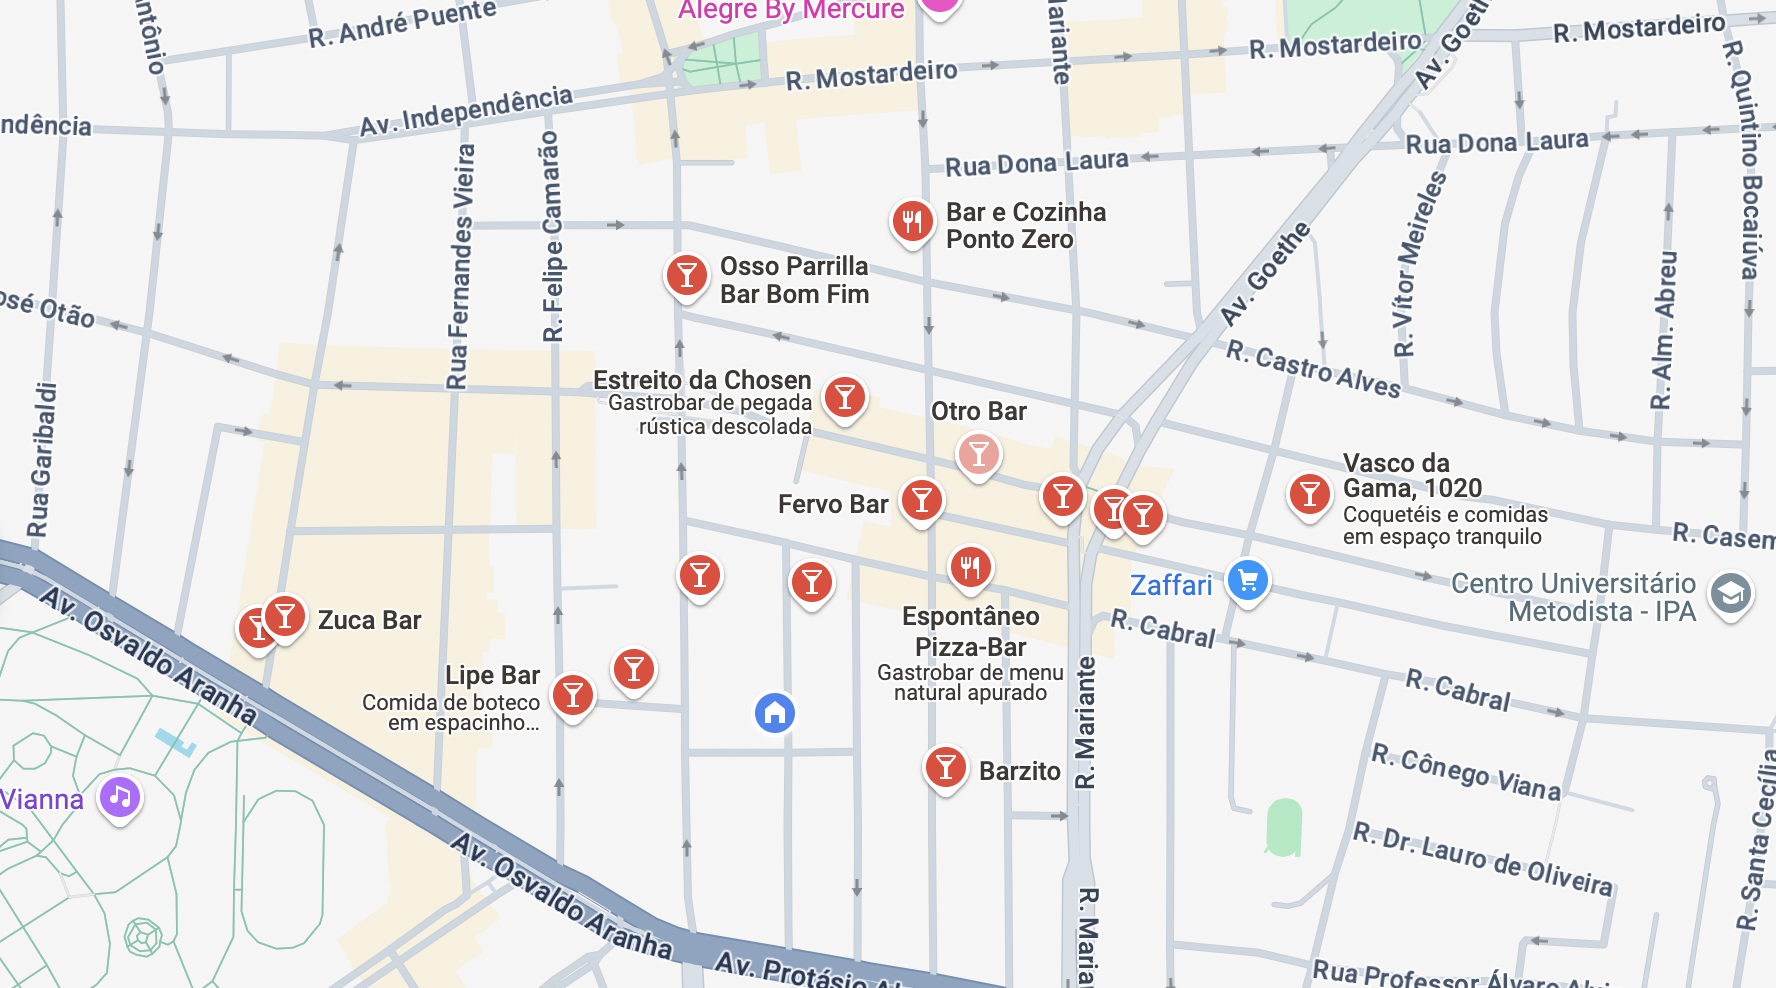
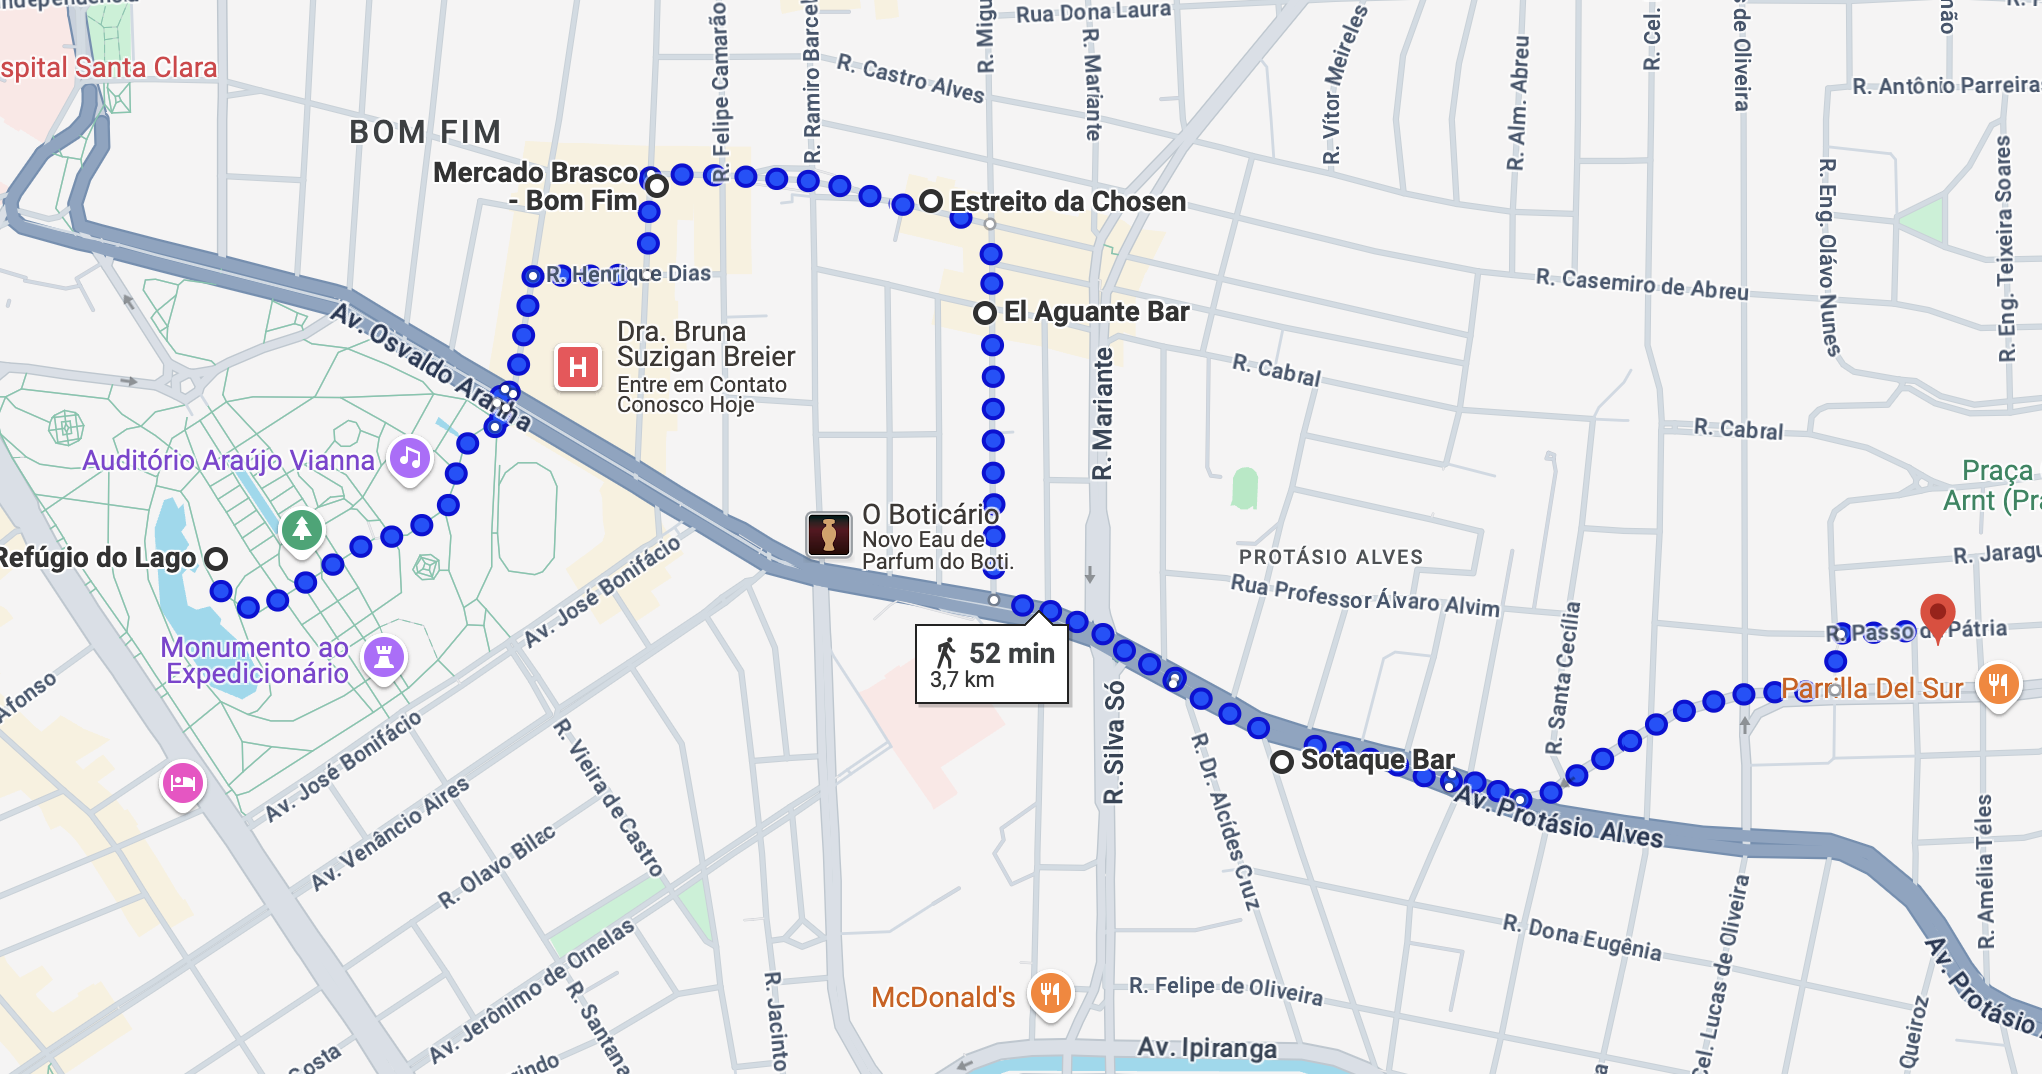
finalizado com todos os bares

diff --git a/index.html b/index.html
@@ -23,34 +23,77 @@ https://www.tooplate.com/view/2122-nano-folio
 <body>
     <div class="tm-container-fluid">
         <section class="tm-site-header tm-flex-center tm-mb-50 tm-bgcolor-2 tm-border-rounded">
-            <img src="./img/mapa.png" style="width:100%; height:50%;">
+            <img src="./img/mapa.png" style="width:100%; height:45%;">
         </section>
 
         <section class="tm-about tm-mb-80 tm-p-50 tm-bgcolor-1 tm-border-rounded">
             <div class="tm-about-header tm-flex-center">
-                <img style="width: 100%; height:100%" src="./img/refugio.png">
+                <img style="width: 100%; height:100%" src="./img/refugio.jpeg">
             </div>
             <div class="tm-about-text" style="padding-left:10px;">
-                <h1>1.</h1>
-                <p class="tm-mb-40">Nossa largada será no Refúgio do Lago.</p>
-                <p class="tm-mb-40">Chegar a partir das 17h</p>
-                <p class="tm-mb-40">O refúgio do lago na redenção foi escolhido para ser a nossa largada. Chegue cedo pois logo menos vamos começar a nossa baratona e ir rumo aos próximos km e destinos.</p>
-                <p class="tm-mb-0">Parque Farroupilha</p>
+                <h1>1. Refúgio do Lago</h1>
+                <p class="tm-mb-40">O Refúgio do Lago, na Redenção, foi escolhido para ser a concentração e nosso ponto de largada. Pedimos que cheguem cedo, próximo das 17h, pois logo vamos dar início a nossa BARatona 🍺🏃🏻♀e ir rumo aos próximos Km e destinos.</p>
+                <p class="tm-mb-0">Refúgio do Lago, Parque Farroupilha - Farroupilha, Porto Alegre - RS</p>
                 <a href="https://maps.app.goo.gl/C18gzLk58tJZEgcV9">Clique aqui para localização</a>
             </div>
         </section>
 
         <section class="tm-about tm-mb-80 tm-p-50 tm-bgcolor-2 tm-border-rounded">
             <div class="tm-about-header tm-flex-center">
-                <h2><img style="width: 100%; height:100%" src="./img/chosen.png"></h2>
+                <h2><img style="width: 100%; height:100%" src="./img/brasco.jpeg"></h2>
             </div>
             <div class="tm-about-text" style="padding-left:10px;">
-                <h1>2.</h1>
-                <p class="tm-mb-40">Estreito da Chosen é o nosso bar número 2.</p>
-                <p class="tm-mb-40">Hora prevista de chegada 18:30h</p>
-                <p class="tm-mb-40">Aqui você pode beber x, y e z</p>
-                <p class="tm-mb-0">R. Vasco da Gama, 542</p>
-                <a href="https://maps.app.goo.gl/GDu6umk3UaXu4j236">Clique aqui para localização</a>
+                <h1>2. Mercado Brasco</h1>
+                <p class="tm-mb-40">Nosso primeiro ponto de hidratação será no Mercado Brasco, uma das esquinas mais queridinhas do Bom Fim. Aqui você pode se hidratar e, de quebra, repor algumas calorias com sorvetes, petiscos e delícias de padaria. 😝</p>
+                <p class="tm-mb-0">Mercado Brasco - Bom Fim, Rua Fernandes Vieira, 286 - Bom Fim, Porto Alegre</p>
+                <a href="https://maps.app.goo.gl/LJeUv3sdFhqogSub6">Clique aqui para localização</a>
+            </div>
+        </section>
+        <section class="tm-about tm-mb-80 tm-p-50 tm-bgcolor-1 tm-border-rounded">
+            <div class="tm-about-header tm-flex-center">
+                <img style="width: 100%; height:100%" src="./img/chosen.jpeg">
+            </div>
+            <div class="tm-about-text" style="padding-left:10px;">
+                <h1>3. Estreito da Chosen</h1>
+                <p class="tm-mb-40">A segunda parada será no Estreito da Chosen, as britas mais simpáticas do bairro. Para hidratação, opções de drinks e coqueteis não faltam e também tem aquele cardápio de cervejinhas especiais.</p>
+                <p class="tm-mb-0">Estreito da Chosen, R. Vasco da Gama, 542 - Rio Branco, Porto Alegre - RS</p>
+                <a href="https://maps.app.goo.gl/DeqRBhWsGNiB5Nz4A">Clique aqui para localização</a>
+            </div>
+        </section>
+
+        <section class="tm-about tm-mb-80 tm-p-50 tm-bgcolor-2 tm-border-rounded">
+            <div class="tm-about-header tm-flex-center">
+                <h2><img style="width: 100%; height:100%" src="./img/elaguante.jpeg"></h2>
+            </div>
+            <div class="tm-about-text" style="padding-left:10px;">
+                <h1>4. El Aguante</h1>
+                <p class="tm-mb-40">Nosso terceiro ponto de hidratação será no El Aguante, um dos barzinhos mais “raiz” das redondezas. A hidratação fica por conta da clássica cerveja de garrafa, cachacinhas variadas e “aperitivos” de boteco.</p>
+                <p class="tm-mb-0">El Aguante Bar, R. Miguel Tostes, 611 - Rio Branco, Porto Alegre - RS</p>
+                <a href="https://maps.app.goo.gl/5a1BZW91YoCRJ9s17">Clique aqui para localização</a>
+            </div>
+        </section>
+
+        <section class="tm-about tm-mb-80 tm-p-50 tm-bgcolor-1 tm-border-rounded">
+            <div class="tm-about-header tm-flex-center">
+                <img style="width: 100%; height:100%" src="./img/sotaque.jpeg">
+            </div>
+            <div class="tm-about-text" style="padding-left:10px;">
+                <h1>5. Sotaque Bar</h1>
+                <p class="tm-mb-40">A quarta parada será no Sotaque Bar, mais uma esquininha simpática e boêmia do nosso trajeto. O “STQ”, como é carinhosamente apelidado, oferece petiscos, chopp bem gelado e drinks no seu cardápio.</p>
+                <p class="tm-mb-0">Sotaque Bar, Av. Protásio Alves, 699 - Rio Branco, Porto Alegre - RS</p>
+                <a href="https://maps.app.goo.gl/XmA2YLfsPhTgCuTbA">Clique aqui para localização</a>
+            </div>
+        </section>
+
+        <section class="tm-about tm-mb-80 tm-p-50 tm-bgcolor-2 tm-border-rounded">
+            <div class="tm-about-header tm-flex-center">
+                <h2><img style="width: 100%; height:100%" src="./img/4beer.jpeg"></h2>
+            </div>
+            <div class="tm-about-text" style="padding-left:10px;">
+                <h1>6. 4Beer</h1>
+                <p class="tm-mb-40">Nossa chegada triunfal será no 4Beer!! Aqui daremos sequência nas comemorações, com aquela sensação de BARatona concluída e a certeza de ter dado o nosso melhor (sorriso, abraço, risada, animação) nesse circuito!</p>
+                <p class="tm-mb-0">4Beer Bela Vista, R. Passo da Pátria, 389 - Bela Vista, Porto Alegre - RS</p>
+                <a href="https://maps.app.goo.gl/kWTuvKKNydDR2dE67">Clique aqui para localização</a>
             </div>
         </section>
 
@@ -61,25 +104,22 @@ https://www.tooplate.com/view/2122-nano-folio
             </div>
             <div class="tm-contact-info">
                 <address class="tm-mb-30">
-					Aqui podemos colocar alguma mensagem,
-					ou mesmo tirar toda essa parte.
-					Talvez um contato?
+					Está precisando alguma ajuda? Entre em contato que tentaremos resolver ;)
 				</address>
-                <div class="tm-text-white tm-mb-40">Cel: <a href="tel:0100200340" class="tm-link-white">51 9999-9999</a></div>
+                <div class="tm-text-white tm-mb-40">Cel: <a href="tel:0100200340" class="tm-link-white">51 99667-0734</a></div>
                 <div class="tm-flex">
-                    <a href="https://facebook.com" class="tm-social-link"><i class="fab fa-facebook"></i></a>
-                    <a href="https://twitter.com" class="tm-social-link"><i class="fab fa-twitter"></i></a>
-                    <a href="https://instagram.com" class="tm-social-link"><i class="fab fa-instagram"></i></a>
+                    <a href="https://api.whatsapp.com/send/?phone=5551996670734&text&type=phone_number&app_absent=0" class="tm-social-link"><i class="fab fa-whatsapp"></i></a>
+                    <a href="https://www.instagram.com/rafaeladelrio/" class="tm-social-link"><i class="fab fa-instagram"></i></a>
                 </div>
             </div>
-            <div class="tm-contact-form-container">
+            <!-- <div class="tm-contact-form-container">
                 <form id="contact-form" action="" method="POST" class="tm-contact-form">
                     <input type="text" name="name" placeholder="Nome" required="" />
                     <input type="email" name="email" placeholder="e-mail" required="" />
                     <textarea rows="5" name="message" class="tm-mb-30" placeholder="mensagem" required=""></textarea>
                     <button type="submit" class="tm-right tm-btn-submit">enviar</button>
                 </form>
-            </div>
+            </div> -->
         </section>
 
         <footer class="tm-footer">
